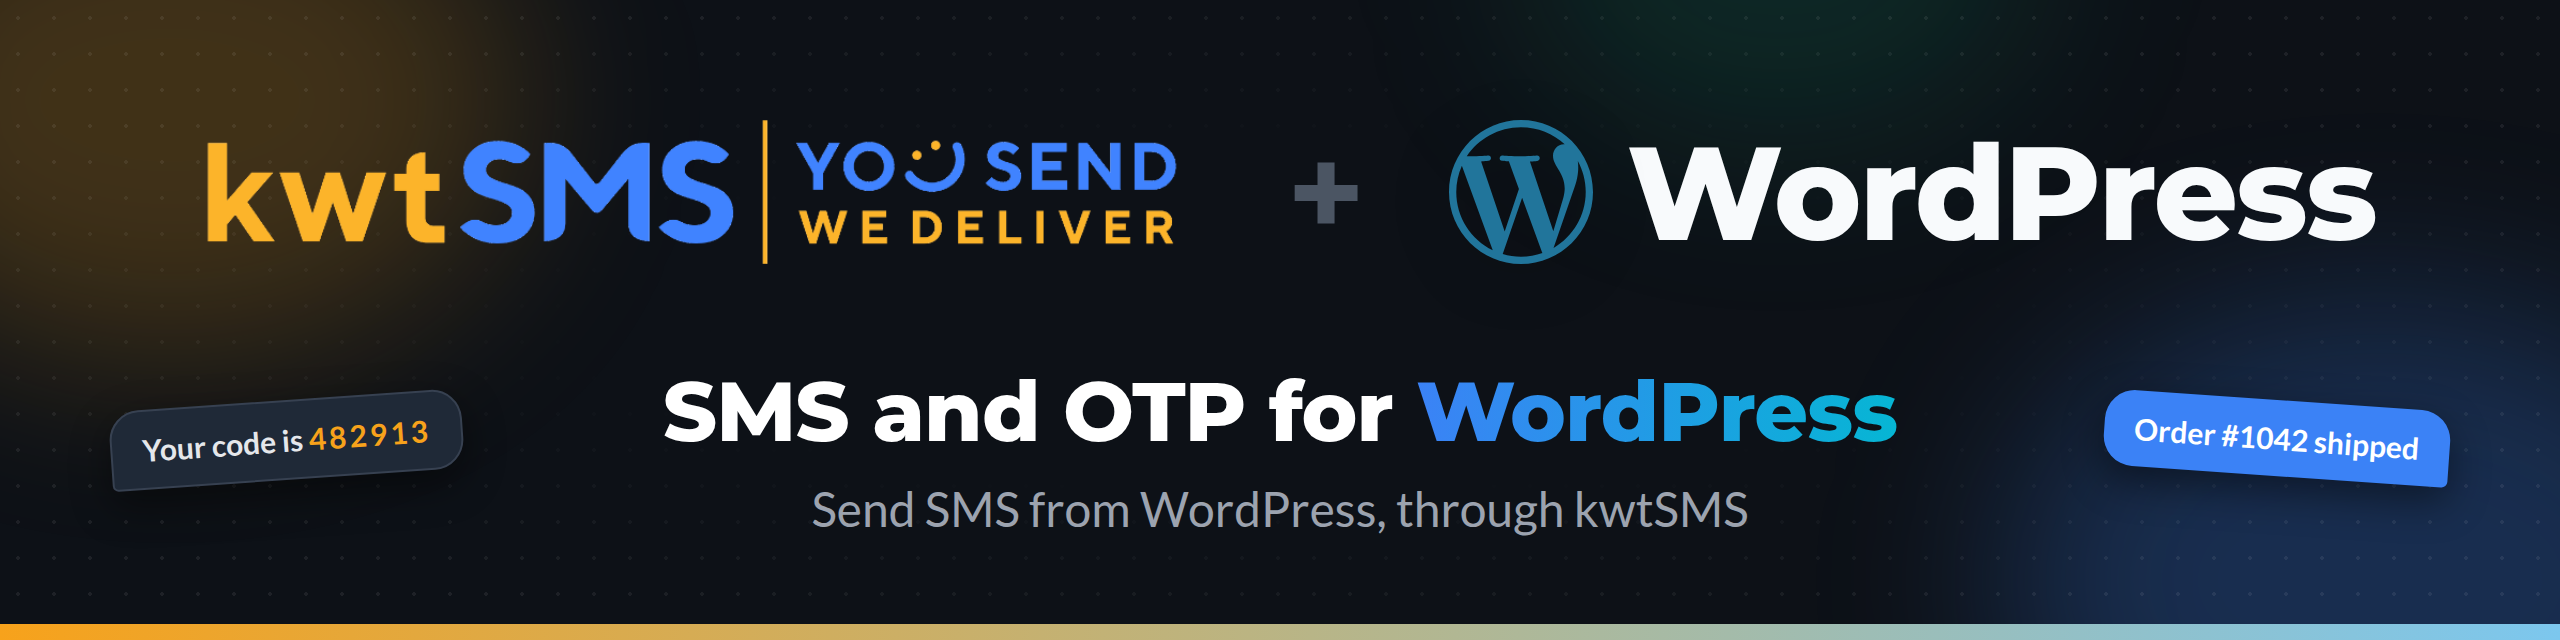
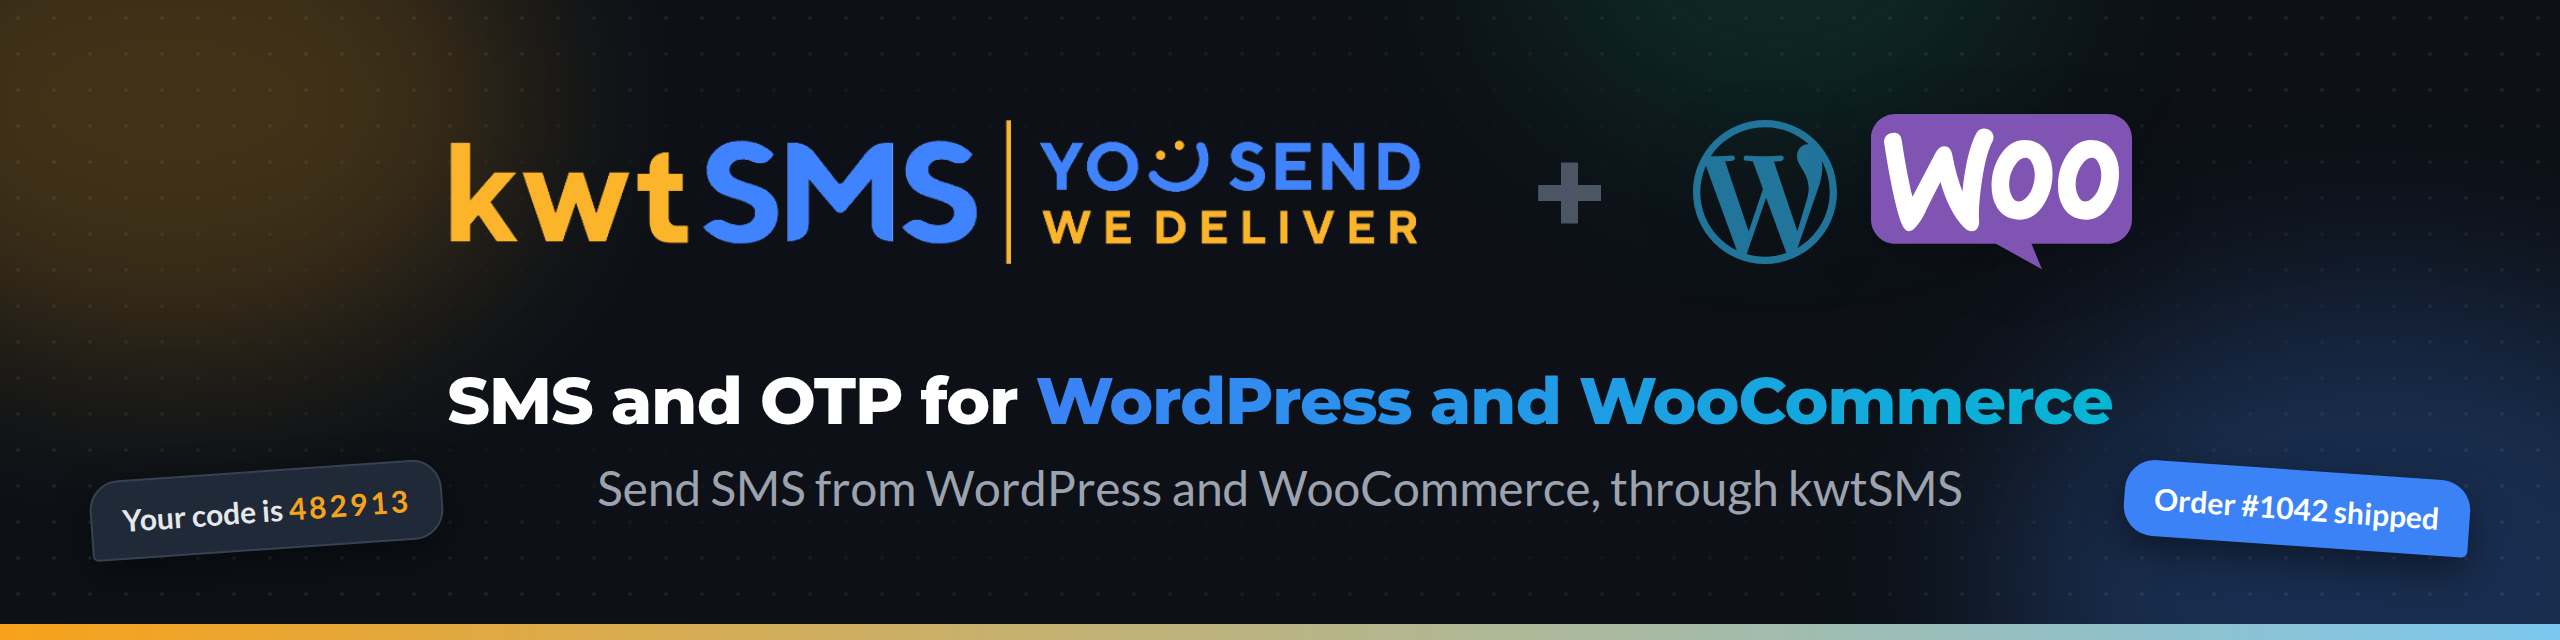
docs: README header names WooCommerce (#15)

Changed region(s): [[0.0625, 0.1562, 0.9375, 0.4062], [0.0312, 0.5938, 0.9688, 0.875], [0.2188, 0.7188, 0.7812, 0.8438]]

diff --git a/README.md b/README.md
@@ -1,6 +1,6 @@
 <picture>
   <source media="(prefers-color-scheme: dark)" srcset=".github/assets/readme-header-dark.png">
-  <img alt="kwtSMS for WordPress" src=".github/assets/readme-header-light.png">
+  <img alt="kwtSMS for WordPress and WooCommerce" src=".github/assets/readme-header-light.png">
 </picture>
 
 # kwtSMS: OTP & SMS Notifications, WordPress Plugin
